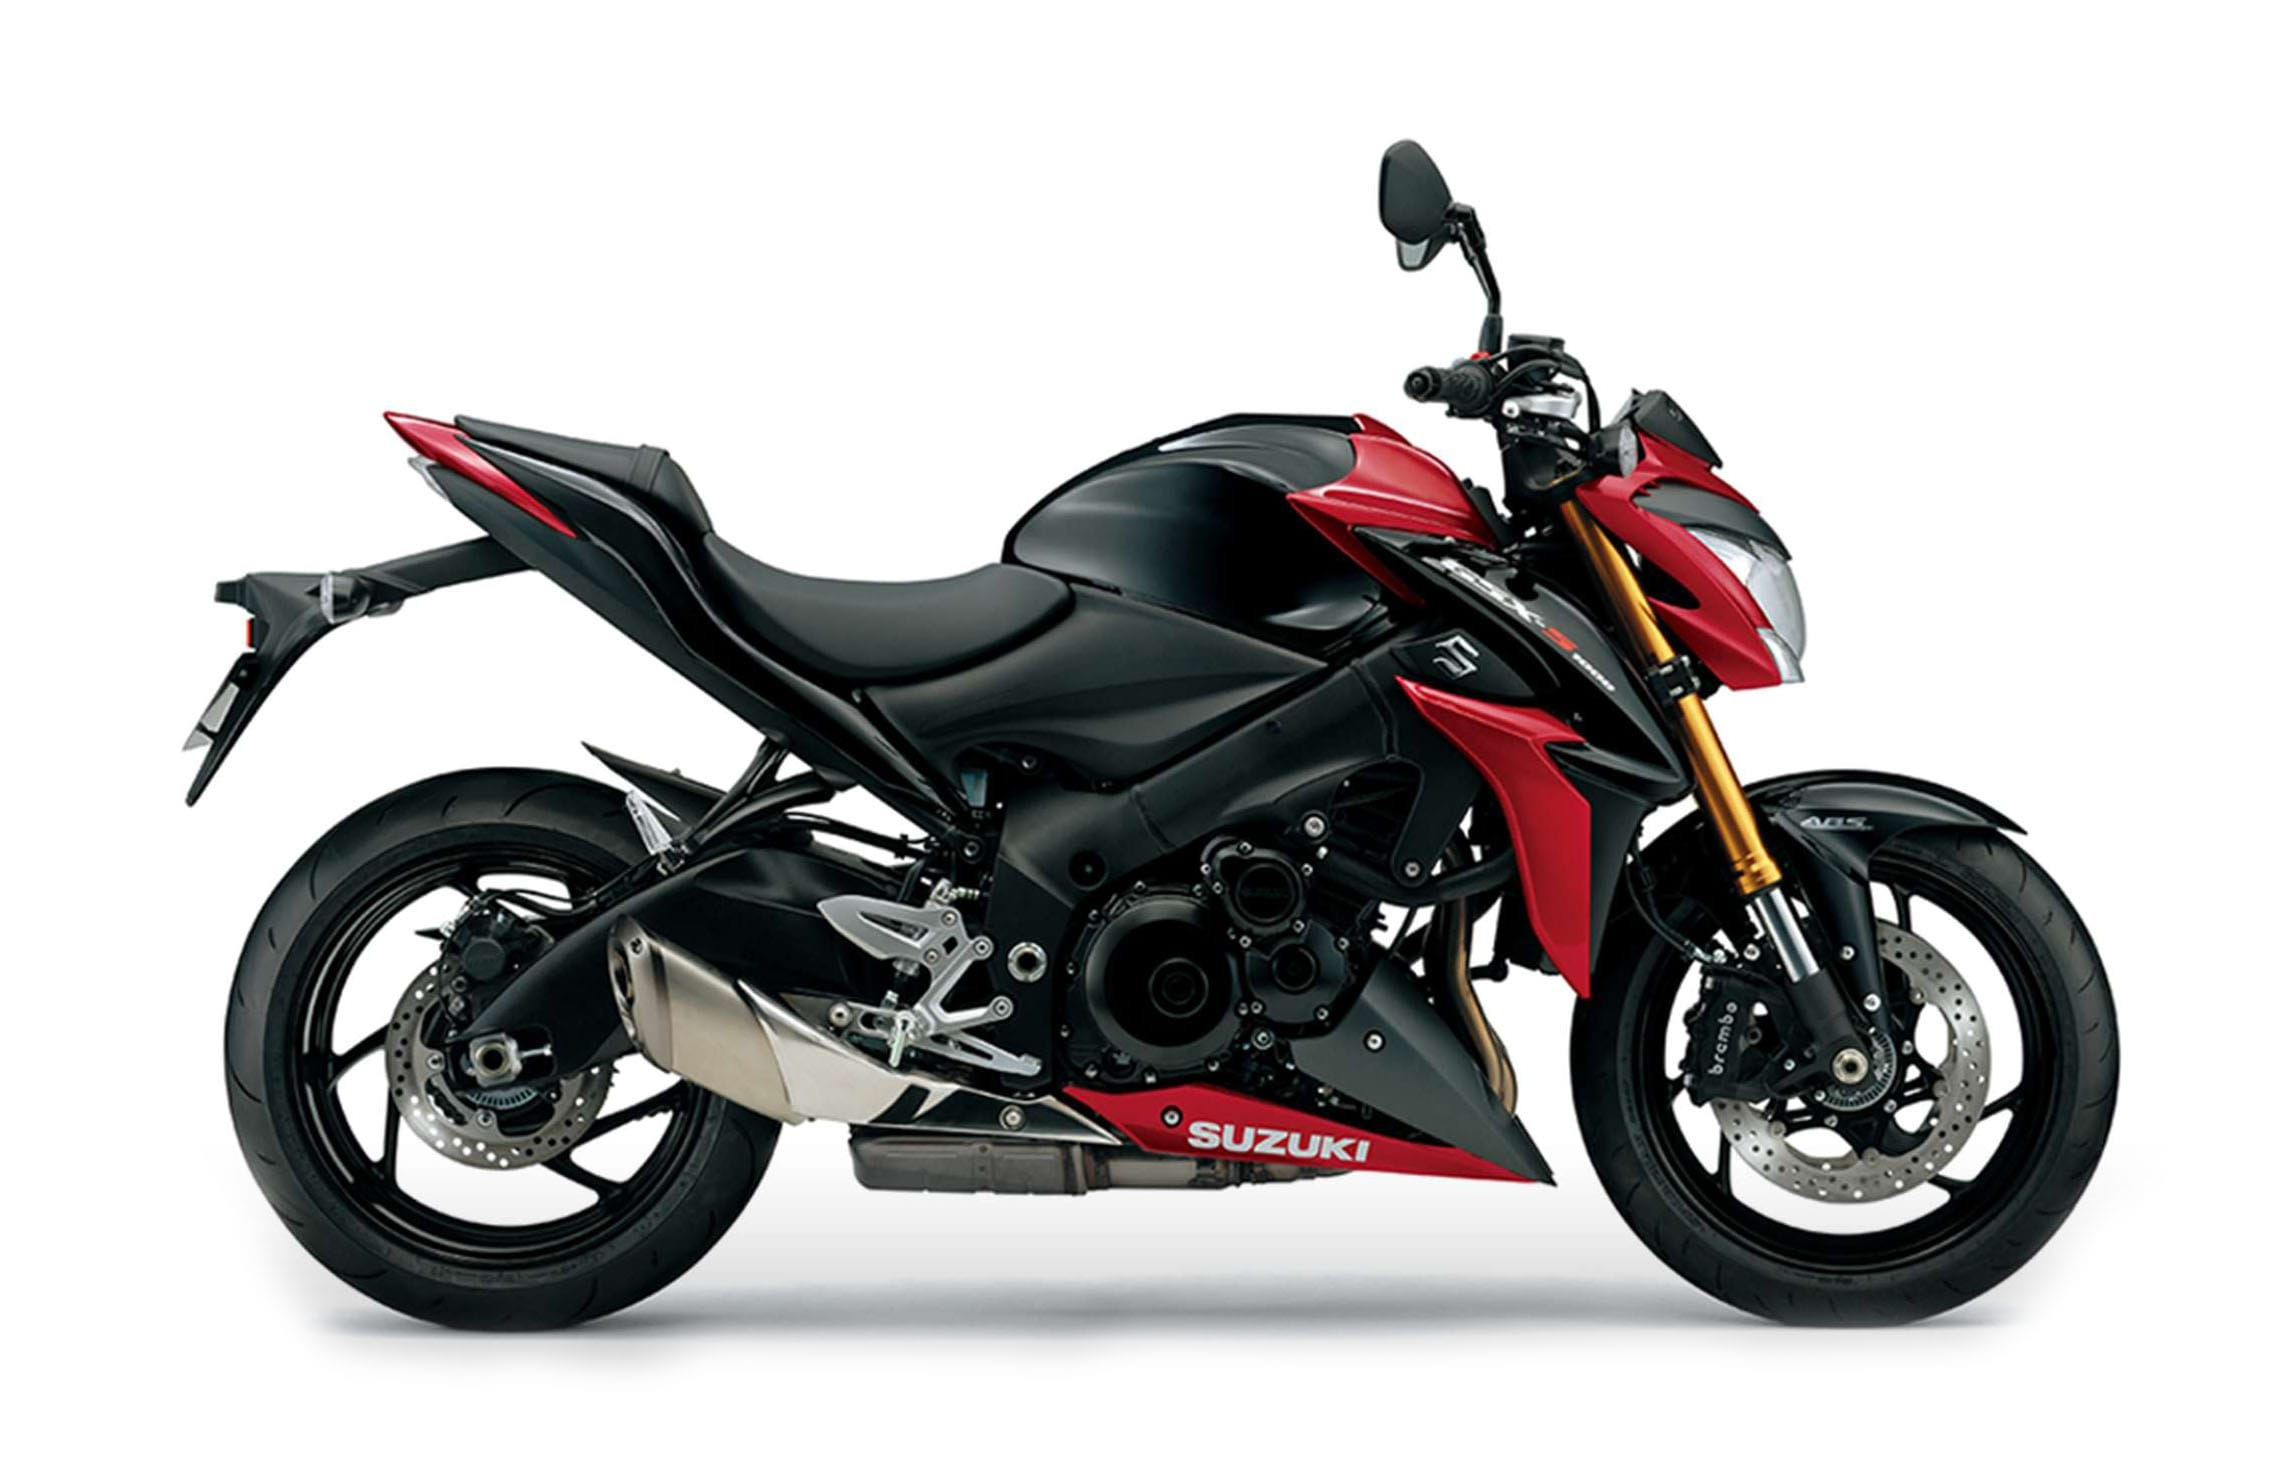
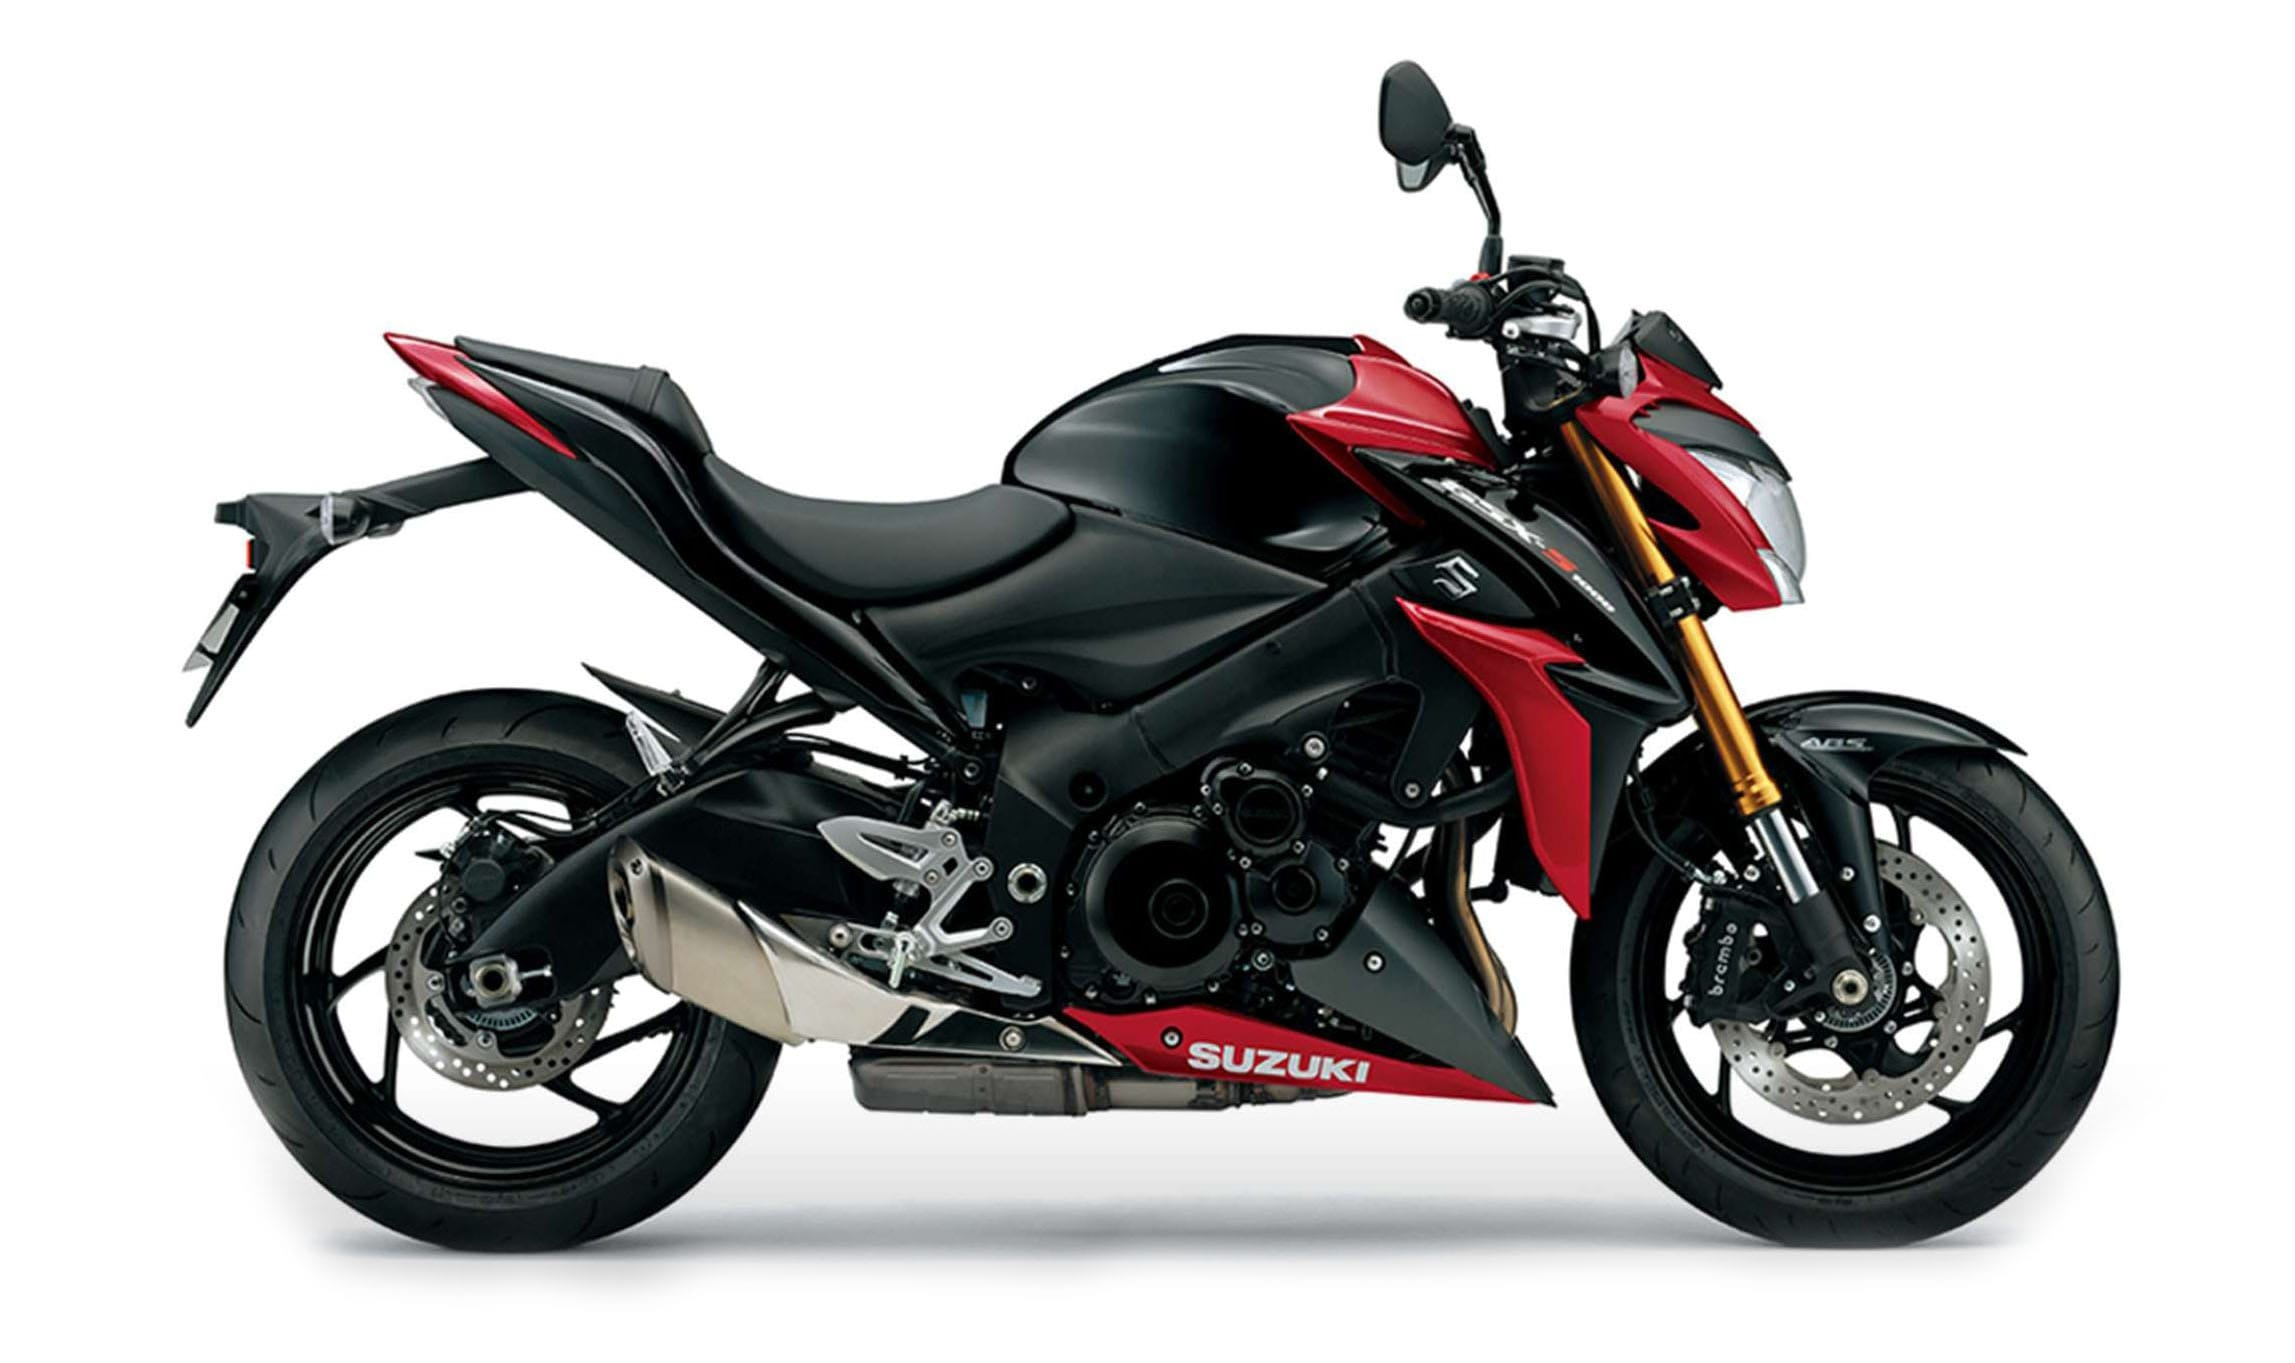
prod head color tabs

Changed region(s): [[0.0619, 0.0308, 0.9281, 0.9244], [0.8972, 0.8012, 0.9281, 0.832], [0.6497, 0.7087, 0.6806, 0.7395]]

diff --git a/app/page-product-single.html b/app/page-product-single.html
@@ -14,19 +14,37 @@ title: Single Product Page
       <h1 class="prodhead__modellname">GSX-S1000</h1>
     </div>
     <div class="columns medium-3 medium-text-right">
-      <ul class="prodhead__colorselect">
-        <li><a href="#" class="active"></a></li>
-        <li><a href="#"></a></li>
-        <li><a href="#"></a></li>
+      <ul class="prodhead__colorselect" data-tabs data-options="linkClass: colitem;" id="product__colorvariants">
+        <li class="colitem atabs-title is-active"><a href="#colvarpanel-1" aria-selected="true"></a></li>
+        <li class="colitem atabs-title"><a href="#colvarpanel-2"></a></li>
+        <li class="colitem atabs-title"><a href="#colvarpanel-3"></a></li>
       </ul>
     </div>
   </div>
 </header>
 
 <section class="prodhero text-center">
-  <div class="row">
-    <div class="columns">
-      <img src="img/GSX-S1000-red.jpg" alt="">
+  <div class="tabs-content" data-tabs-content="product__colorvariants">
+    <div class="tabs-panel is-active" id="colvarpanel-1">
+      <div class="row">
+        <div class="columns">
+          <img class="prodhero__img"src="img/GSX-S1000-red.jpg" alt="">
+        </div>
+      </div>
+    </div>
+    <div class="tabs-panel" id="colvarpanel-2">
+      <div class="row">
+        <div class="columns">
+          <img class="prodhero__img"src="img/GSX-S1000-gray.jpg" alt="">
+        </div>
+      </div>
+    </div>
+    <div class="tabs-panel" id="colvarpanel-3">
+      <div class="row">
+        <div class="columns">
+          <img class="prodhero__img"src="http://placehold.it/1600x1025/ffffff/?text=Termékfotó+kis+fehér+kifutóval+fent+balra+jobbra" alt="">
+        </div>
+      </div>
     </div>
   </div>
 </section>
@@ -254,12 +272,25 @@ title: Single Product Page
   <div class="row">
     <div class="columns">
       <h2 class="blocktitle">Kiegészítők</h2>
-      <p>Consectetur adipisicing elit. Consequatur, ea unde ad! Commodi eligendi perferendis dolor itaque iste, nesciunt quod neque eum deleniti qui, tempore, placeat harum repellat eveniet architecto?</p>
-      <p>Lorem ipsum dolor sit amet, consectetur adipisicing elit. Consequatur, ea unde ad! Commodi eligendi perferendis dolor itaque iste, nesciunt quod neque eum deleniti qui, tempore, placeat harum repellat eveniet architecto? Lorem ipsum dolor sit amet, consectetur adipisicing elit. Consequatur, ea unde ad! Commodi eligendi perferendis dolor itaque iste, nesciunt quod neque eum deleniti qui, tempore, placeat harum repellat eveniet architecto?</p>
-      <a href="#">Továábi termékek</a>
+      <div class="relposts row small-up-1 medium-up-2 large-up-3">
+         {% include squareaccs.html %}
+      </div>
+      <a href="#" class="button ps__buttonmore">További termékek</a>
     </div>
   </div>
 </aside>
+
+<section class="ps ps--gray relatedposts">
+  <div class="row">
+    <div class="columns tablet-10 large-12 tablet-centered">
+      <h2 class="blocktitle">Kapcsolódó írások</h2>
+      <div class="relposts row small-up-1 medium-up-2 large-up-3">
+         {% include squareposts.html %}
+      </div>
+      <a href="#" class="button ps__buttonmore">Összes hír</a>
+    </div>
+  </div>
+</section>
 
 
 <section class="prodrelblock">

diff --git a/app/_scss/_page-product-single.scss b/app/_scss/_page-product-single.scss
@@ -6,6 +6,7 @@
     left:0;
     width:100%;
     padding:7vh 0 0;
+    z-index: 1;
   }
 }
 .prodhead__yearselect {
@@ -40,6 +41,13 @@
   > li {
     display:inline-block;
     margin-left: .25rem;
+    &.is-active a {
+      border:.25rem solid $dark-gray;
+      &:hover {
+        border:.25rem solid $dark-gray;
+        cursor: default;
+      }
+    }
     a {
       display: block;
       border-radius:50%;
@@ -47,10 +55,7 @@
       width:2.5rem;
       height:2.5rem;
       border:.25rem solid $medium-gray;
-      &.active {
-       border:.25rem solid $dark-gray;
-      }
-      &:not(.active):hover {
+      &:hover {
         border:.25rem solid $light-gray;
       }
     }
@@ -69,14 +74,37 @@
 }
 
 .prodhero {
-
+  overflow: hidden;
+  margin:1rem 0;
   @include breakpoint('tablet') {
-    margin-top: 2vh;
+    margin: 5vh 0;
+    border-bottom: 1px solid $light-gray;
   }
 
-  img {
-    border:1px solid $light-gray;
+
+  .tabs-content {
+    background: transparent;
+    transition: all 0.5s ease;
+    border: none;
   }
+
+  .tabs-panel {
+    padding:0;
+  }
+}
+
+.prodhero__img {
+  border:1px solid $light-gray;
+
+  @include breakpoint('xlarge') {
+    max-width: none;
+    //width:auto;
+    height:75vh;
+    min-height: 40rem;
+    transform: translateX(-50%);
+    margin-left:50%;
+  }
+
 }
 
 .prodhead__slogan {

diff --git a/app/_includes/squareaccs.html b/app/_includes/squareaccs.html
@@ -1,0 +1,29 @@
+<div class="column">
+  <div class="squareacc card ">
+    <figure class="card__fig">
+      <a href="post-single.html"><img src="http://placehold.it/640x320" alt=""></a>
+    </figure>
+    <span class="card__label">121 500,-Ft</span>
+    <h3 class="card__title"><a href="post-single.html">Lorem Suzuki tank protector light</a></h3>
+  </div>
+</div>
+
+<div class="column">
+  <div class="squareacc card ">
+    <figure class="card__fig">
+      <a href="post-single.html"><img src="http://placehold.it/640x320/cecece" alt=""></a>
+    </figure>
+    <span class="card__label">49 900,-Ft</span>
+    <h3 class="card__title"><a href="post-single.html">St MX dolor sit amet</a></h3>
+  </div>
+</div>
+
+<div class="column">
+  <div class="squareacc card ">
+    <figure class="card__fig">
+      <a href="post-single.html"><img src="http://placehold.it/640x320/3b3b3b" alt=""></a>
+    </figure>
+    <span class="card__label">7 800,-Ft</span>
+    <h3 class="card__title"><a href="post-single.html">Piros acél tanksapka védő</a></h3>
+  </div>
+</div>

diff --git a/app/post-single.html b/app/post-single.html
@@ -14,8 +14,13 @@ title: Single Post Page
     </div>
     <div class="row singlepost__header ps">
       <div class="columns">
+        <div class="row">
+          <div class="tablet-10 large-8 tablet-centered">
         <div class="singlepost__meta">2015. szeptember 15.</div>
         <h1 class="singlepost__title decorlined">Történelmi pole pozíció Catalugna MotoGP</h1>
+          </div>
+        </div>
+
         <div class="singlepost__lead lead">
           <p>Jelentős pozitív summával zárta a Katalán Nagydíjat a Team Suzuki Ecstar. Elégedett és büszke lehet a Suzuki-család MotoGP-n elért eredményeinkre: elképesztő az Aleix Espargaró által megszerzett pole pozíció és Maverick Viñales második rajthelye – Suzuki „egy-kettőt” az időmérőn az 1993-as, Jerez-i nagydíj óta nem láttunk!</p>
         </div>

diff --git a/app/_scss/_layout.scss b/app/_scss/_layout.scss
@@ -1,3 +1,20 @@
+.row {
+  @include breakpoint('tablet') {
+    max-width:95%;
+  }
+  @include breakpoint('large') {
+    max-width:85%;
+  }
+  @include breakpoint('xxxlarge') {
+    max-width:$global-width;
+  }
+  .row {
+    @include breakpoint('tablet') {
+      max-width:$global-width;
+    }
+  }
+}
+
 .ps {
   padding-top: 2rem;
   padding-bottom: 2rem;

diff --git a/app/_scss/_singlepost.scss b/app/_scss/_singlepost.scss
@@ -10,14 +10,19 @@
   p:last-of-type {
     margin-bottom: 0;
   }
+  @include breakpoint('tablet') {
+    //text-align: center;
+  }
 }
 .singlepost__title {
   text-align: center;
   text-transform: uppercase;
   margin-bottom: .5em;
+  line-height: 1.125;
 }
 
 .singlepost__meta {
+
   font-size: 1.25rem;
   line-height: 1;
   text-align: center;

diff --git a/app/_scss/_elements.scss b/app/_scss/_elements.scss
@@ -8,3 +8,19 @@
 
 }
 
+.squareacc.card {
+  background-color: $dark-gray;
+  margin-bottom: $paragraph-margin-bottom;
+  //text-align: center;
+  .card__fig {
+    //border-bottom:: 2px solid $primary-color;
+  }
+  .card__label {
+    //margin-left:33.333%;
+  }
+  .card__title {
+    a {
+      color:#fff;
+    }
+  }
+}

diff --git a/app/_scss/_settings.scss b/app/_scss/_settings.scss
@@ -79,7 +79,9 @@ $breakpoints: (
   large: 1024px,
   xlarge: 1200px,
   xxlarge: 1440px,
+  xxxlarge: 1600px
 );
+
 $breakpoint-classes: (small medium tablet large xlarge xxlarge);
 
 // 3. The Grid
